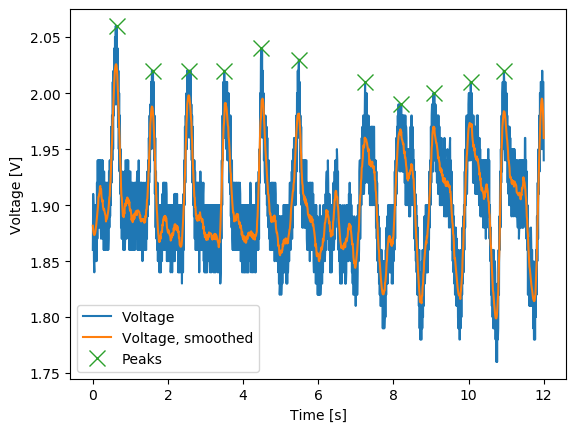
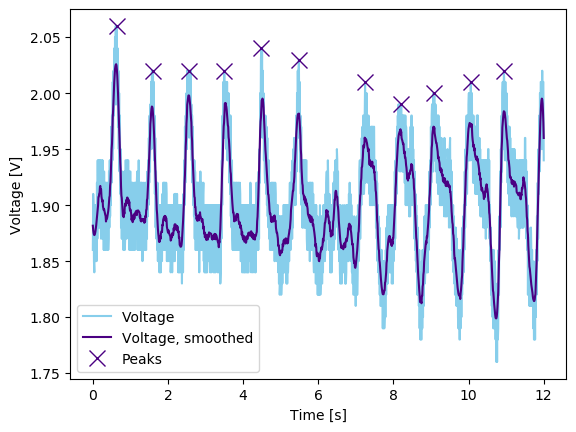
recolor plots to be better visible in grayscale

Changed region(s): [[0.1562, 0.0301, 0.9688, 0.8426], [0.1562, 0.7222, 0.1875, 0.7824], [0.1562, 0.8125, 0.1875, 0.8426]]

diff --git a/data/voltage.py b/data/voltage.py
@@ -59,10 +59,10 @@ class Voltage:
 
     def plot(self, window_title='voltage plot', show=True, save_as=None):
         seconds = np.linspace(0, len(self.voltage) * self.resolution, len(self.voltage))
-        plt.plot(seconds, self.voltage, label='Voltage')
-        plt.plot(seconds, self.smooth().voltage, label='Voltage, smoothed')
+        plt.plot(seconds, self.voltage, label='Voltage', color='skyblue')
+        plt.plot(seconds, self.smooth().voltage, label='Voltage, smoothed', color='indigo')
         peaks = self.peaks()
-        plt.plot(seconds[peaks], self.voltage[peaks], 'x', label='Peaks', markersize=12)
+        plt.plot(seconds[peaks], self.voltage[peaks], 'x', label='Peaks', color='indigo', markersize=12)
         plt.xlabel('Time [s]')
         plt.ylabel('Voltage [V]')
         plt.legend()
